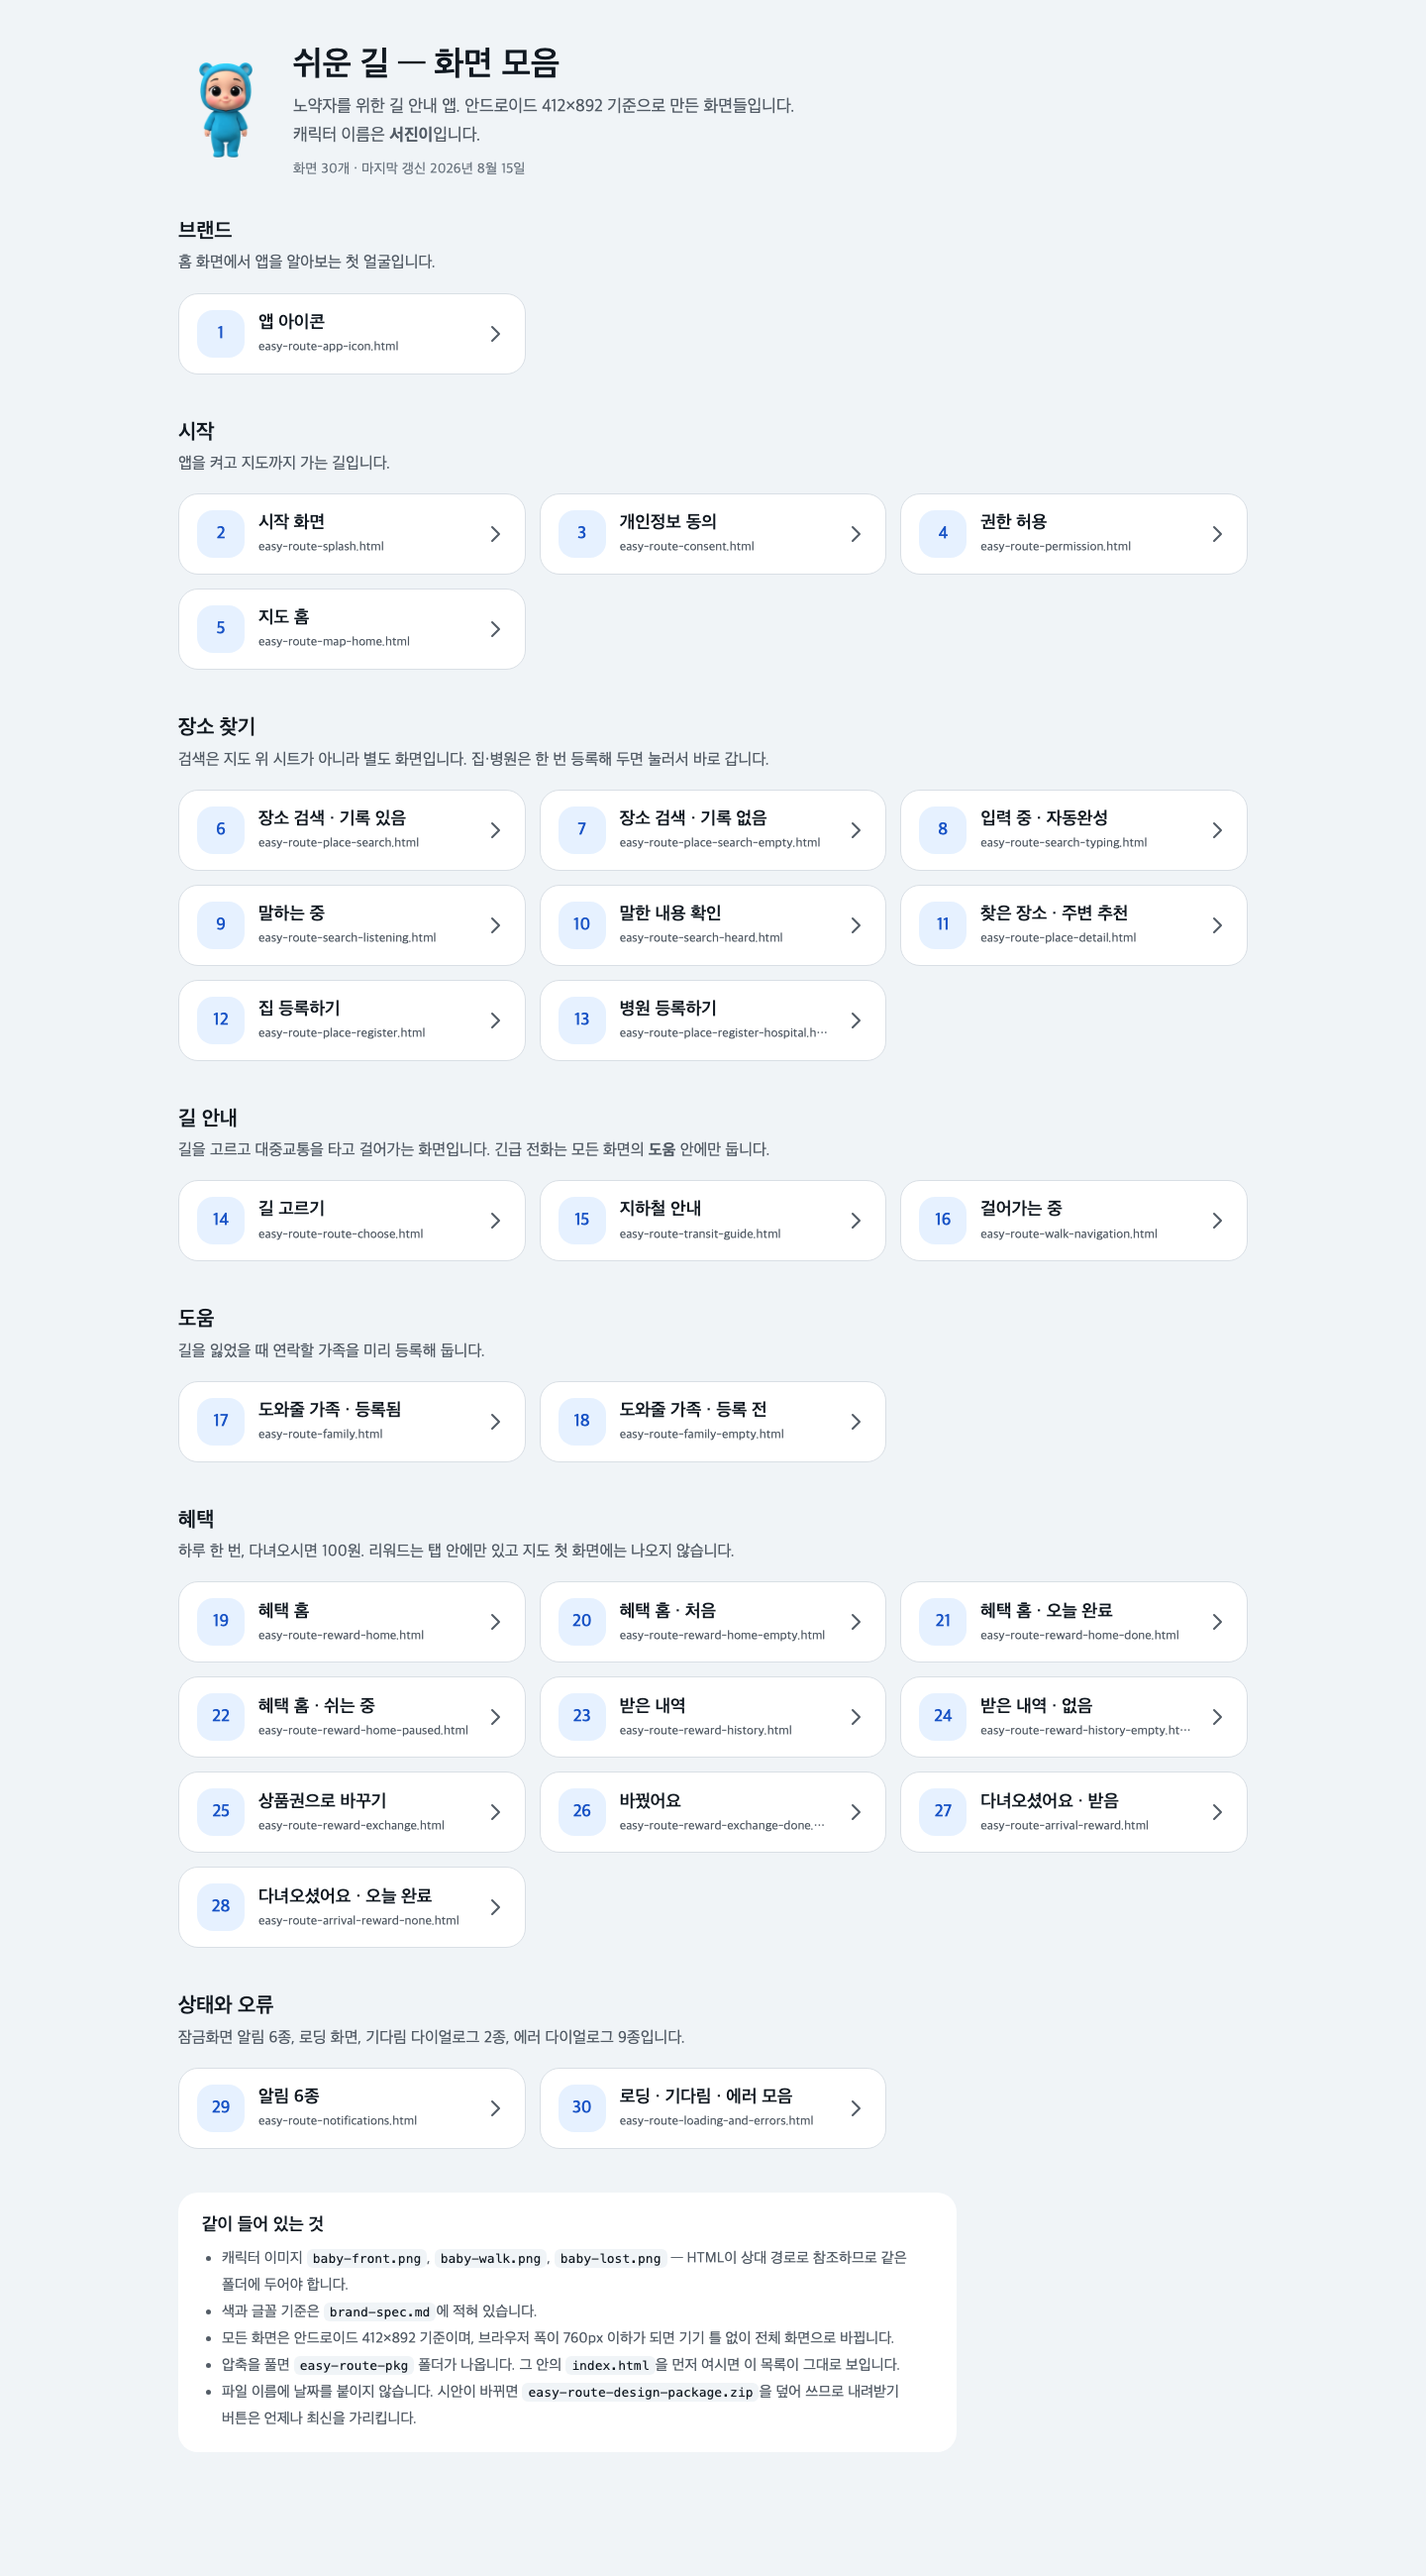
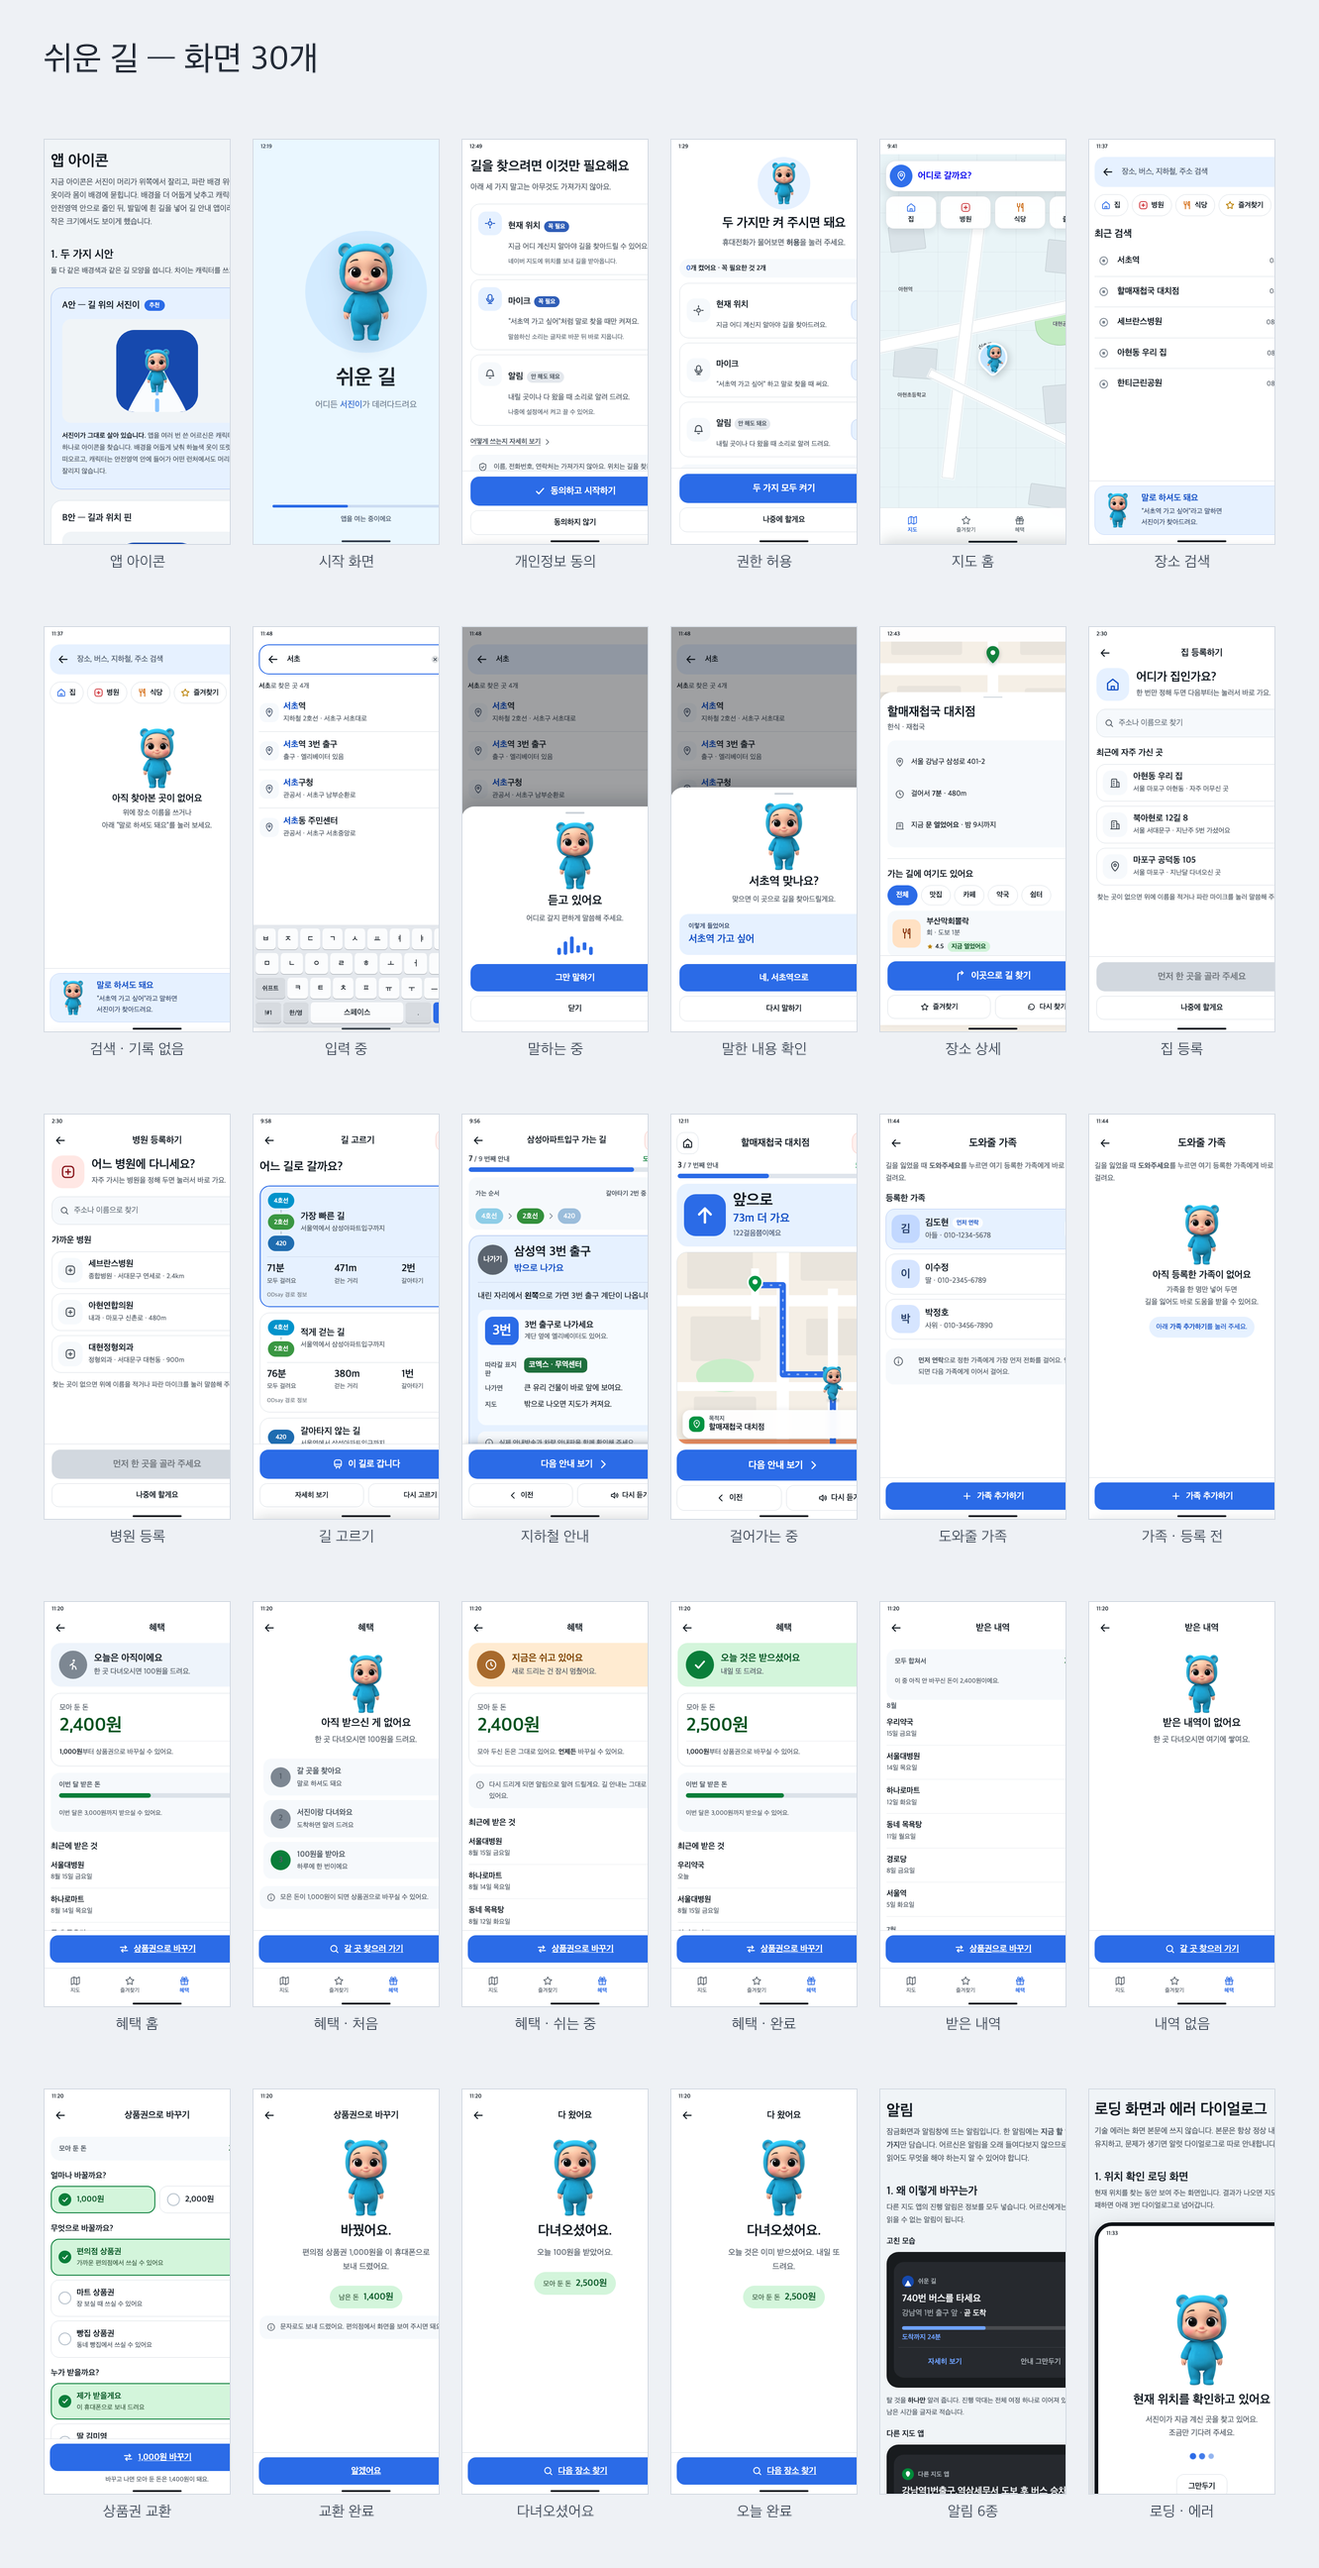
docs: 쉬운 길 화면 30개 갤러리 교체하고 상태 설계 내용 추가
index 목록 캡처 대신 개별 화면 30개를 격자로 합성.
빈 상태·상태 변형·에러 다이얼로그 9종, 음성 입력 3단계,
도착 리워드 흐름 추가.

diff --git a/case-studies/ai-design-workflow.md b/case-studies/ai-design-workflow.md
@@ -23,6 +23,34 @@ Android 412×892 기준, 터치 영역 최소 44px, 가로 스크롤 금지. 색
 이동 수단 색(도보·버스·지하철·환승)은 보조 표식으로만 쓰고 **텍스트 라벨을 항상 함께**
 제공합니다. 대상 사용자를 생각하면 색만으로 정보를 전달할 수 없습니다.
 
+### 잘 되는 화면만 만들지 않았다
+
+30개 중 정상 흐름은 절반뿐입니다. 나머지는 비어 있거나 어긋난 상태입니다.
+
+| 종류 | 화면 |
+|---|---|
+| 빈 상태 | 검색 기록 없음, 가족 등록 전, 받은 내역 없음, 혜택 처음 |
+| 상태 변형 | 혜택 홈 4종(기본·처음·쉬는 중·완료), 도착 리워드 2종(받음·오늘 완료) |
+| 로딩과 오류 | 로딩 화면, 기다림 다이얼로그 2종, 에러 다이얼로그 9종 |
+| 알림 | 잠금화면 알림 6종 |
+
+빈 화면에 캐릭터와 다음 행동 버튼을 넣었습니다. "받은 내역이 없어요"에는 "갈 곳 찾으러
+가기"가 붙습니다. 아무것도 없는 화면에서 사용자가 멈추지 않게 하려는 처리입니다.
+
+### 음성 입력을 3단계로 쪼갰다
+
+입력 중 → 말하는 중 → 말한 내용 확인. 지도 앱을 어려워하는 사용자에게는 타이핑보다 음성이
+현실적이라, 인식 결과를 되읽어 확인받는 단계를 따로 뒀습니다. 잘못 들었으면 "다시 말하기"로
+돌아갑니다.
+
+### 도착 이후로 이어지는 장치
+
+길안내가 끝나면 앱을 지웁니다. 그래서 도착하면 100원을 주고, 모아서 상품권(편의점·마트·빵집)
+으로 바꾸는 흐름을 넣었습니다. 목적지 주변 장소 추천도 같은 이유입니다. 리워드는 탭 안에만
+두고 지도 첫 화면에는 노출하지 않았습니다.
+
+길을 잃었을 때 연락할 가족을 미리 등록하는 화면도 있습니다.
+
 ### 기획서 없이 시작했다
 
 이 프로젝트는 기획서에서 출발하지 않았습니다. 실제 Android 빌드 화면을 캡처해 보내고 잘못된
